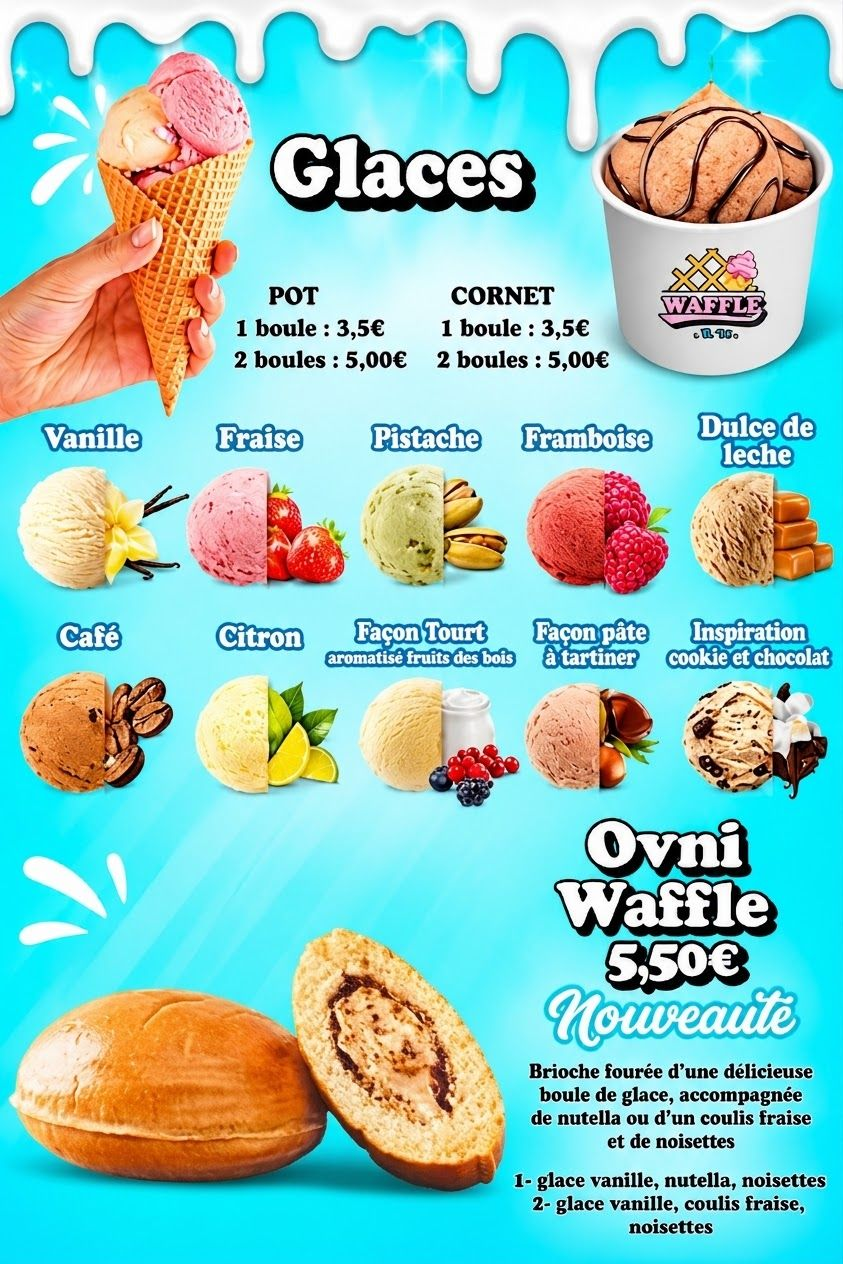
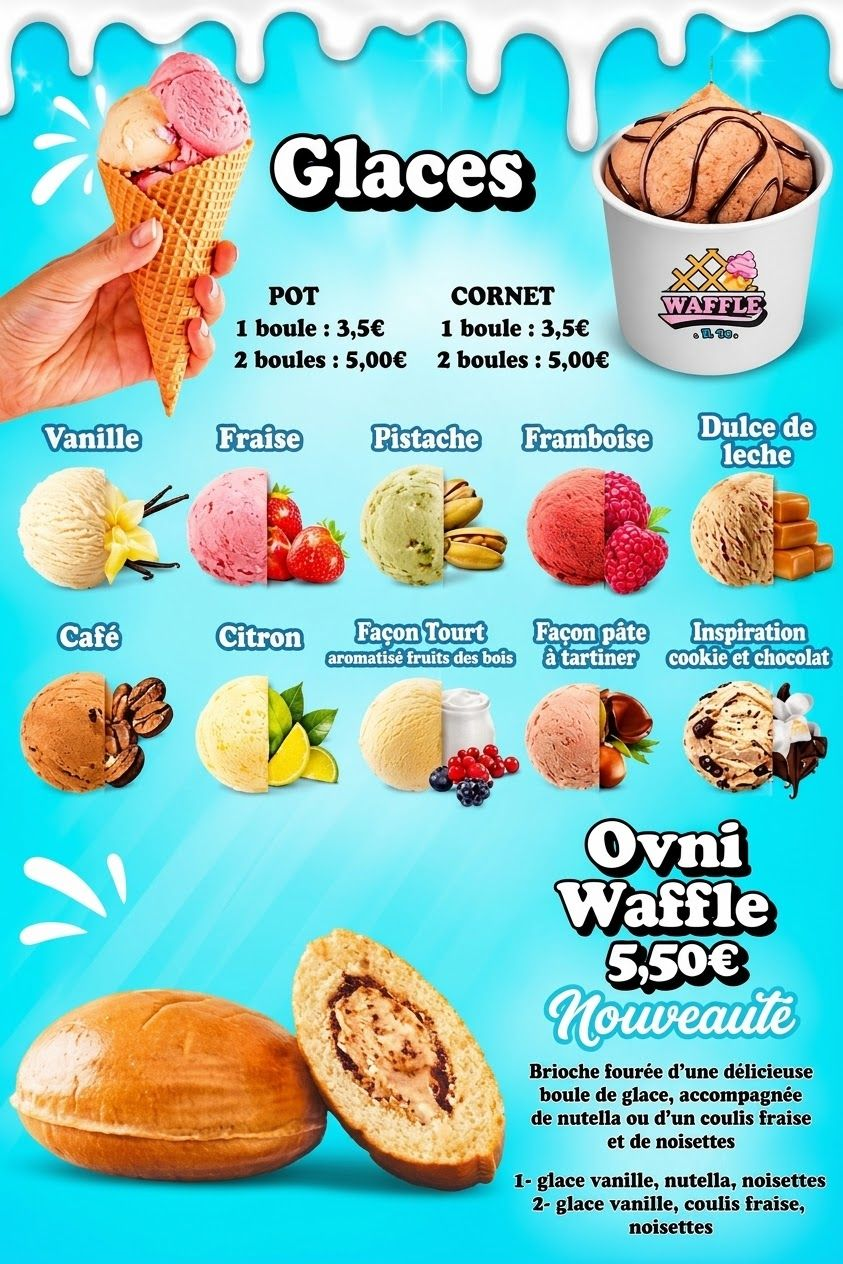
Nouvelle image portrait smoothies

diff --git a/script.js b/script.js
@@ -3,7 +3,7 @@ function show(){
  var h=(location.hash||"#menu").slice(1);if(views.indexOf(h)<0)h="menu";
  views.forEach(function(v){document.getElementById("v-"+v).classList.toggle("on",v===h)});
  document.querySelectorAll("nav a").forEach(function(a){a.setAttribute("aria-current",a.getAttribute("href")==="#"+h)});
- if(h!=="jeu")stop();if(h==="menu")fit();
+ if(h!=="jeu")stop();if(h==="menu")fit();if(h==="jeu"&&window.sizeG)sizeG();
 }
 addEventListener("hashchange",show);show();
 
@@ -45,63 +45,82 @@ document.getElementById("send").onclick=function(){
  ["n","e","m"].forEach(function(i){document.getElementById(i).value=""});
 };
 
-/* Jeu */
-var cv=document.getElementById("g"),cx=cv.getContext("2d"),W=420,H=520;
-var GOOD=["🥞","🧇","🍬"],BAD=["🐝","🐜","🐟"];
-var px=W/2,items=[],score=0,lives=3,run=false,raf=0,last=0,spawn=0,best=0,keys={};
-try{best=+localStorage.getItem("wc_best")||0}catch(e){}
-document.getElementById("bs").textContent=best;
-function body(x){
- var y=H-110;
- cx.lineWidth=3;cx.strokeStyle="#000";
- cx.fillStyle="#f2c29b";
- cx.beginPath();cx.arc(x,y-4,22,0,7);cx.fill();cx.stroke();           /* tête */
- cx.fillStyle="#000";cx.beginPath();cx.arc(x-8,y-8,2.5,0,7);cx.arc(x+8,y-8,2.5,0,7);cx.fill();
- cx.beginPath();cx.arc(x,y,9,.2,Math.PI-.2);cx.stroke();               /* sourire */
- cx.fillStyle="#f2c29b";cx.beginPath();cx.ellipse(x,y+68,50,40,0,0,7);cx.fill();cx.stroke(); /* ventre */
- cx.beginPath();cx.arc(x,y+72,3,0,7);cx.stroke();                      /* nombril */
- cx.fillStyle="#111";cx.beginPath();cx.moveTo(x-36,y+22);cx.quadraticCurveTo(x,y+14,x+36,y+22);
- cx.lineTo(x+52,y+58);cx.quadraticCurveTo(x,y+44,x-52,y+58);cx.closePath();cx.fill();cx.stroke(); /* t-shirt court */
- cx.fillStyle="#2FC4EA";cx.fillRect(x-34,y+104,28,22);cx.fillRect(x+6,y+104,28,22);cx.strokeRect(x-34,y+104,28,22);cx.strokeRect(x+6,y+104,28,22);
-}
-function draw(){
- cx.clearRect(0,0,W,H);
- cx.font="38px serif";cx.textAlign="center";cx.textBaseline="middle";
- items.forEach(function(i){cx.fillText(i.e,i.x,i.y)});
- body(px);
-}
-function loop(t){
- if(!run)return;
- var dt=Math.min(40,t-last)/1000;last=t;
- if(keys.ArrowLeft)px-=320*dt;if(keys.ArrowRight)px+=320*dt;
- px=Math.max(50,Math.min(W-50,px));
- spawn-=dt;
- if(spawn<=0){var bad=Math.random()<.35,s=bad?BAD:GOOD;
-  items.push({x:30+Math.random()*(W-60),y:-20,v:120+Math.random()*80+score*1.2,e:s[Math.floor(Math.random()*3)],bad:bad});
-  spawn=Math.max(.35,.9-score/400)}
- items=items.filter(function(i){
-  i.y+=i.v*dt;
-  var hit=i.y>H-120&&i.y<H-30&&Math.abs(i.x-px)<52;
-  if(hit){if(i.bad){lives--}else{score+=10}ui();return false}
-  return i.y<H+30});
- if(lives<=0){end();return}
- draw();raf=requestAnimationFrame(loop);
-}
-function ui(){document.getElementById("sc").textContent=score;document.getElementById("lv").textContent="❤❤❤".slice(0,Math.max(0,lives))||"💔"}
-function start(){items=[];score=0;lives=3;spawn=.5;px=W/2;run=true;ui();document.getElementById("ov").style.display="none";last=performance.now();raf=requestAnimationFrame(loop)}
-function stop(){run=false;cancelAnimationFrame(raf)}
-function end(){
- stop();draw();
- if(score>best){best=score;document.getElementById("bs").textContent=best;try{localStorage.setItem("wc_best",best)}catch(e){}}
- var o=document.getElementById("ov");o.style.display="flex";
- o.children[0].textContent="Aïe, perdu !";o.children[1].innerHTML="Ton score : "+score;o.children[2].textContent="Tu veux retenter ?";
- document.getElementById("go").textContent="Rejouer";
-}
-document.getElementById("go").onclick=start;
-function mv(e){var r=cv.getBoundingClientRect();px=(e.clientX-r.left)*W/r.width}
-cv.addEventListener("pointermove",mv);cv.addEventListener("pointerdown",mv);
-addEventListener("keydown",function(e){if(e.key==="ArrowLeft"||e.key==="ArrowRight"){keys[e.key]=true;if(location.hash==="#jeu")e.preventDefault()}
- else if(location.hash==="#menu"||!location.hash){}});
-addEventListener("keyup",function(e){keys[e.key]=false});
-addEventListener("keydown",function(e){if(!location.hash||location.hash==="#menu"){if(e.key==="ArrowLeft")go(cur-1);if(e.key==="ArrowRight")go(cur+1)}});
-draw();
+/* Jeux Waffle&Co */
+var CONFIG={leaderboardUrl:null}; /* plus tard : adresse de l’API du classement avec lots */
+var $=function(i){return document.getElementById(i)},cv=$("g"),cx=cv.getContext("2d"),W=360,H=540;
+var GM=null,S={},run=false,raf=0,last=0,paused=false,mute=false,pname="",AC=null;
+try{pname=localStorage.getItem("wc_name")||""}catch(e){}$("pn").value=pname;
+var EM=["","🍓","🍌","🍬","🥞","🧇","🍦","🧁","🍰","🍩","🏆","👑"],PAL=["#fff","#ffb3c7","#fff3a0","#ffc2f0","#ffd9a0","#ffe28a","#c8f0ff","#e6c8ff","#ffb3b3","#ffcf9e","#ffe066","#ffd23f"],IN=["🍫","🍓","🍌","🍯","🍦","🍬"];
+function beep(f,d,ty){if(mute)return;try{AC=AC||new(window.AudioContext||window.webkitAudioContext)();var o=AC.createOscillator(),g=AC.createGain();o.type=ty||"sine";o.frequency.value=f;g.gain.value=.06;o.connect(g);g.connect(AC.destination);o.start();g.gain.exponentialRampToValueAtTime(.0001,AC.currentTime+d);o.stop(AC.currentTime+d)}catch(e){}}
+$("mu").onclick=function(){mute=!mute;$("mu").textContent=mute?"🔇":"🔊"};
+function loadLB(id){try{return JSON.parse(localStorage.getItem("wc_lb_"+id)||"[]")}catch(e){return[]}}
+function saveScore(id,n,s){var e={g:id,n:n,s:s,d:new Date().toISOString().slice(0,10)},a=loadLB(id);a.push(e);a.sort(function(x,y){return y.s-x.s});a=a.slice(0,10);
+ try{localStorage.setItem("wc_lb_"+id,JSON.stringify(a))}catch(x){}
+ if(CONFIG.leaderboardUrl){try{fetch(CONFIG.leaderboardUrl,{method:"POST",headers:{"Content-Type":"application/json"},body:JSON.stringify(e)}).catch(function(){})}catch(x){}}}
+function showOv(t,d,b,nm){$("ot").textContent=t;$("od").innerHTML=d;$("go").textContent=b;$("pn").style.display=nm?"block":"none";$("sh").hidden=!(!nm&&!paused&&navigator.share);
+ var o=$("top5");o.innerHTML="";loadLB(GM.id).slice(0,5).forEach(function(e){var l=document.createElement("li");l.textContent=e.n+" – "+e.s;o.appendChild(l)});$("ov").style.display="flex"}
+function sizeG(){if(!GM||!cv)return;var v=$("v-jeu"),g=$("gw"),t=g.getBoundingClientRect().top+scrollY,aw=v.clientWidth-8,ah=Math.max(280,innerHeight-t-14),s=Math.min(aw/W,ah/H);if(!(s>0))return;
+ var d=Math.min(2,devicePixelRatio||1);cv.style.width=W*s+"px";cv.style.height=H*s+"px";cv.width=W*d;cv.height=H*d;cx.setTransform(d,0,0,d,0,0);cx.clearRect(0,0,W,H);GM.drw()}
+addEventListener("resize",sizeG);
+function ui(){$("sc").textContent=S.score;$("cb").textContent=S.lives!=null?"❤".repeat(Math.max(0,S.lives)):""}
+function newO(){var k=S.n<5?2:3;S.o=IN.slice().sort(function(){return Math.random()-.5}).slice(0,k);S.got=[];S.tmax=Math.max(3,8-S.n*.3);S.tm=S.tmax}
+function lose(){S.lives--;beep(120,.3,"sawtooth");if(S.lives<=0)S.dead=1;else newO();ui()}
+function addT(){var e=[];S.g.forEach(function(v,i){if(!v)e.push(i)});if(e.length)S.g[e[Math.floor(Math.random()*e.length)]]=Math.random()<.9?1:2}
+function slide(l){var a=l.filter(Boolean),r=[],sc=0;for(var i=0;i<a.length;i++){if(a[i]===a[i+1]){r.push(a[i]+1);sc+=Math.pow(2,a[i]+1);i++}else r.push(a[i])}while(r.length<4)r.push(0);return[r,sc]}
+function can(){var g=S.g;for(var i=0;i<16;i++){if(!g[i])return 1;if(i%4<3&&g[i]===g[i+1])return 1;if(i<12&&g[i]===g[i+4])return 1}return 0}
+function mv4(d){var g=S.g,n=g.slice(),ch=0,tot=0;
+ for(var k=0;k<4;k++){var ix=[0,1,2,3].map(function(j){return d<2?k*4+j:j*4+k});if(d%2)ix.reverse();var r=slide(ix.map(function(i){return g[i]}));ix.forEach(function(i,j){if(n[i]!==r[0][j])ch=1;n[i]=r[0][j]});tot+=r[1]}
+ if(ch){S.g=n;S.score+=tot;addT();beep(300+tot*8,.1);ui();if(!can())S.dead=1}}
+var C4=["#ff6fb5","#ffd23f","#5ad1f0","#b57bff"];
+function T(s,x,y,f){cx.font=f;cx.fillText(s,x,y)}
+var GAMES=[
+{id:"stack",n:"Empile ta glace",e:"🍦",d:"Touche l’écran pour poser chaque étage pile sur le précédent. Plus tu es précis, plus la pile reste large !",
+ init:function(){S={score:0,bl:[{x:80,w:200}],mx:0,mw:200,dir:1,sp:150,cam:0}},
+ upd:function(dt){S.mx+=S.dir*S.sp*dt;if(S.mx<0){S.mx=0;S.dir=1}if(S.mx+S.mw>W){S.mx=W-S.mw;S.dir=-1}S.cam+=(Math.max(0,S.bl.length-8)*30-S.cam)*Math.min(1,dt*6)},
+ dn:function(){var t=S.bl[S.bl.length-1],l=Math.max(t.x,S.mx),o=Math.min(t.x+t.w,S.mx+S.mw)-l;if(o<=0){S.dead=1;beep(150,.4,"sawtooth");return}
+  if(Math.abs(S.mx-t.x)<6){l=t.x;o=t.w}S.bl.push({x:l,w:o});S.mw=o;S.score++;S.sp=Math.min(380,150+S.score*9);S.mx=S.dir>0?0:W-o;ui();beep(500+S.score*15,.1)},
+ drw:function(){var m=S.cam;cx.lineWidth=3;cx.strokeStyle="#000";cx.fillStyle="#c68642";cx.fillRect(-5,H-52+m,W+10,80);cx.strokeRect(-5,H-52+m,W+10,80);
+  S.bl.forEach(function(b,i){cx.fillStyle=C4[i%4];var y=H-80-i*30+m;cx.fillRect(b.x,y,b.w,28);cx.strokeRect(b.x,y,b.w,28)});
+  var n=S.bl.length,y=H-80-n*30+m;cx.fillStyle=C4[n%4];cx.fillRect(S.mx,y,S.mw,28);cx.strokeRect(S.mx,y,S.mw,28);cx.textAlign="center";cx.textBaseline="middle";T("🍦",S.mx+S.mw/2,y-14,"26px serif")}},
+{id:"m2048",n:"Waffle 2048",e:"🧇",d:"Glisse le doigt pour faire fusionner deux gourmandises identiques. Arriveras-tu à l’Ovni Waffle 👑 ?",
+ init:function(){S={score:0,g:new Array(16).fill(0),dx:0,dy:0};addT();addT()},upd:function(){},
+ dn:function(x,y){S.dx=x;S.dy=y},up:function(x,y){var a=x-S.dx,b=y-S.dy;if(Math.max(Math.abs(a),Math.abs(b))<20)return;mv4(Math.abs(a)>Math.abs(b)?(a<0?0:1):(b<0?2:3))},
+ key:function(k){var d=["ArrowLeft","ArrowRight","ArrowUp","ArrowDown"].indexOf(k);if(d>=0)mv4(d)},
+ drw:function(){var X=(W-344)/2+3,Y=110;cx.textAlign="center";cx.textBaseline="middle";cx.lineWidth=3;cx.strokeStyle="#000";cx.fillStyle="#2a1024";T("Glisse pour fusionner 2 identiques",W/2,60,"700 16px Nunito,sans-serif");
+  S.g.forEach(function(v,i){var x=X+(i%4)*86,y=Y+(i>>2)*86;cx.fillStyle=v?PAL[Math.min(v,11)]:"#ffffff88";cx.fillRect(x,y,80,80);cx.strokeRect(x,y,80,80);if(v){cx.fillStyle="#000";T(EM[Math.min(v,11)],x+40,y+42,"42px serif")}})}},
+{id:"flap",n:"Waffle Flap",e:"🪽",d:"Touche l’écran pour faire sauter la gaufre entre les barres de chocolat. Ne touche rien !",
+ init:function(){S={score:0,y:250,vy:0,p:[],t:.3}},
+ upd:function(dt){S.vy+=900*dt;S.y+=S.vy*dt;S.t-=dt;if(S.t<=0){S.p.push({x:W+30,g:70+Math.random()*(H-300),d:0});S.t=1.5}
+  S.p.forEach(function(p){p.x-=140*dt;if(!p.d&&p.x<70){p.d=1;S.score++;ui();beep(700,.08)}if(Math.abs(p.x-90)<42&&(S.y-14<p.g||S.y+14>p.g+150))S.dead=1});
+  S.p=S.p.filter(function(p){return p.x>-40});if(S.y>H-14||S.y<10)S.dead=1},
+ dn:function(){S.vy=-320;beep(400,.05)},
+ drw:function(){cx.fillStyle="#7b4a2b";cx.strokeStyle="#000";cx.lineWidth=3;S.p.forEach(function(p){var b=p.g+150;cx.fillRect(p.x-30,-5,60,p.g+5);cx.strokeRect(p.x-30,-5,60,p.g+5);cx.fillRect(p.x-30,b,60,H-b+5);cx.strokeRect(p.x-30,b,60,H-b+5)});cx.textAlign="center";cx.textBaseline="middle";T("🧇",90,S.y,"34px serif")}},
+{id:"order",n:"Commande express",e:"🧑🍳",d:"Un client arrive ! Touche vite les bons ingrédients avant la fin du temps. Une erreur = une vie en moins.",
+ init:function(){S={score:0,lives:3,n:0};newO()},upd:function(dt){S.tm-=dt;if(S.tm<=0)lose()},
+ dn:function(x,y){var c=Math.floor((x-30)/100),r=Math.floor((y-300)/110);if(c<0||c>2||r<0||r>1||(x-30)%100>90||(y-300)%110>95)return;var g=IN[r*3+c];
+  if(S.o.indexOf(g)>=0&&S.got.indexOf(g)<0){S.got.push(g);beep(600+S.got.length*100,.08);if(S.got.length===S.o.length){S.score+=10+Math.ceil(S.tm*2);S.n++;newO();ui();beep(900,.2)}}else lose()},
+ drw:function(){cx.textAlign="center";cx.textBaseline="middle";cx.lineWidth=3;cx.strokeStyle="#000";T("🙋",W/2,45,"56px serif");cx.fillStyle="#2a1024";T("Je voudrais…",W/2,98,"800 18px Nunito,sans-serif");
+  S.o.forEach(function(g,i){cx.globalAlpha=S.got.indexOf(g)>=0?.25:1;T(g,W/2+(i-(S.o.length-1)/2)*70,150,"50px serif")});cx.globalAlpha=1;
+  var f=Math.max(0,S.tm/S.tmax);cx.fillStyle=f>.4?"#5ad1f0":"#ff5a5a";cx.fillRect(30,205,(W-60)*f,14);cx.strokeRect(30,205,W-60,14);
+  IN.forEach(function(g,i){var x=30+(i%3)*100,y=300+(i>2?1:0)*110;cx.fillStyle="#fff";cx.fillRect(x,y,90,95);cx.strokeRect(x,y,90,95);cx.fillStyle="#000";T(g,x+45,y+48,"46px serif")})}}
+];
+function hub(){var h=$("hub");h.innerHTML="";GAMES.forEach(function(g,i){var b=document.createElement("button"),s=loadLB(g.id)[0];b.className="gc";b.type="button";
+ b.innerHTML="<span></span><b></b><small></small>";b.children[0].textContent=g.e;b.children[1].textContent=g.n;b.children[2].textContent=s?"Record : "+s.s:"Pas encore joué";b.onclick=function(){pick(g)};h.appendChild(b)})}
+function pick(g){GM=g;paused=false;run=false;$("hub").hidden=true;$("stage").hidden=false;g.init();ui();sizeG();showOv(g.n,g.d,"Jouer",true)}
+function begin(){run=true;paused=false;$("ov").style.display="none";last=performance.now();raf=requestAnimationFrame(loop)}
+function loop(t){if(!run)return;var dt=Math.min(.04,(t-last)/1000);last=t;GM.upd(dt);if(S.dead){over();return}cx.clearRect(0,0,W,H);GM.drw();raf=requestAnimationFrame(loop)}
+function start(){var n=$("pn").value.trim().slice(0,12);if(n){pname=n;try{localStorage.setItem("wc_name",n)}catch(e){}}GM.init();ui();begin();beep(600,.1)}
+function over(){run=false;cx.clearRect(0,0,W,H);GM.drw();var b=loadLB(GM.id)[0],rec=S.score>0&&(!b||S.score>b.s);if(S.score>0)saveScore(GM.id,pname||"Invité",S.score);beep(200,.5,"triangle");
+ showOv("Perdu !","Score : <b>"+S.score+"</b>"+(rec?"<br>🎉 Nouveau record !":""),"Rejouer",false)}
+function pauseG(){if(!run)return;run=false;cancelAnimationFrame(raf);paused=true;showOv("Pause","Score : <b>"+S.score+"</b>","Reprendre",false)}
+function stop(){pauseG()}
+document.addEventListener("visibilitychange",function(){if(document.hidden)pauseG()});
+$("go").onclick=function(){if(paused)begin();else start()};
+$("bk").onclick=function(){run=false;cancelAnimationFrame(raf);paused=false;GM=null;$("stage").hidden=true;$("hub").hidden=false;hub()};
+$("sh").onclick=function(){try{navigator.share({title:GM.n,text:"J’ai fait "+S.score+" points à « "+GM.n+" » chez Waffle&Co ! Viens battre mon score.",url:location.href.split("#")[0]})}catch(e){}};
+function cp(e){var r=cv.getBoundingClientRect();return[(e.clientX-r.left)*W/r.width,(e.clientY-r.top)*H/r.height]}
+cv.addEventListener("pointerdown",function(e){if(run&&GM.dn){var p=cp(e);GM.dn(p[0],p[1])}});
+cv.addEventListener("pointerup",function(e){if(run&&GM.up){var p=cp(e);GM.up(p[0],p[1])}});
+addEventListener("keydown",function(e){var k=e.key;if(location.hash==="#jeu"&&run&&GM.key){e.preventDefault();GM.key(k)}
+ if(!location.hash||location.hash==="#menu"){if(k==="ArrowLeft")go(cur-1);if(k==="ArrowRight")go(cur+1)}});
+hub();

diff --git a/style.css b/style.css
@@ -43,4 +43,19 @@ input,textarea{width:100%;font:inherit;padding:10px 12px;border:3px solid #000;b
 .sl{flex:0 0 100%;position:relative}.rt{display:block;margin:0 auto;font-size:16px;padding:5px 18px}.rot .car{background:var(--bg)}.rot .track{height:100%}.rot .sl{height:100%}.rot .sl img{position:absolute;top:50%;left:50%;max-width:none;transform:translate(-50%,-50%) rotate(90deg);object-fit:contain}.rot h1{display:none}@media (orientation:landscape){.rt{display:none}}
 @media (orientation:landscape) and (max-height:520px){header{position:fixed;top:0;left:0;bottom:0;width:calc(150px + env(safe-area-inset-left,0px));flex-direction:column;align-items:stretch;justify-content:flex-start;gap:8px;padding:8px 10px 8px max(10px,env(safe-area-inset-left));box-shadow:4px 0 0 var(--line);overflow-y:auto}.top img{height:auto;width:100%;max-height:64px;object-fit:contain}nav{flex:none;flex-direction:column;flex-wrap:nowrap;justify-content:flex-start;gap:6px}nav a{flex:none;width:100%;font-size:14px;padding:4px 6px}.info{margin-top:auto;text-align:center;white-space:normal}main{margin-left:calc(150px + env(safe-area-inset-left,0px));padding:8px 12px}.track img{height:calc(100vh - 22px);height:calc(100dvh - 22px)}#g{height:calc(100vh - 100px);height:calc(100dvh - 100px)}}
 @media (orientation:portrait){#lb img{height:auto;width:100%;margin:0 auto auto}.ar{position:fixed;top:55%}}
+.mini{border:2px solid #000;border-radius:50%;background:var(--yel);width:34px;height:34px;font-size:16px;cursor:pointer;padding:0}
+.hud{align-items:center}
+.gw{width:fit-content;max-width:none;margin:auto}
+#g{max-width:none;box-sizing:content-box}
+.ov{overflow:auto;gap:8px}
+.ov .tt{font:400 30px "Lilita One",sans-serif}
+.ov input{width:190px;text-align:center;padding:6px 10px}
+.ov .btn{margin-top:4px}.ov .alt{background:var(--yel)}
+.board{margin:2px 0;padding:0 0 0 22px;font-weight:800;font-size:14px;text-align:left}
+.small{font-size:12px}
+@media (orientation:landscape) and (max-height:520px){#v-jeu h1{display:none}.ov .small{display:none}.ov{gap:4px;padding:8px}.ov .tt{font-size:22px}.board{display:none}}
+[hidden]{display:none!important}
+.hub{display:grid;grid-template-columns:1fr 1fr;gap:12px}
+.gc{background:var(--card);border:3px solid #000;border-radius:18px;padding:14px 8px;box-shadow:4px 5px 0 #000;font:inherit;cursor:pointer;display:flex;flex-direction:column;align-items:center;gap:4px;color:var(--ink)}
+.gc span{font-size:40px}.gc b{font:400 18px "Lilita One",sans-serif}.gc small{font-size:12px}
 @media (prefers-reduced-motion:reduce){.track{transition:none}}

diff --git a/index.html b/index.html
@@ -58,15 +58,20 @@
  </section>
 
  <section class="view" id="v-jeu">
-  <h1>Attrape les gourmandises</h1>
-  <div class="hud"><span>Score : <span id="sc">0</span></span><span id="lv">❤❤❤</span><span>Record : <span id="bs">0</span></span></div>
-  <div class="gw">
-   <canvas id="g" width="420" height="520" aria-label="Jeu : attrape les crêpes, gaufres et bonbons, évite abeilles, fourmis et poissons-chats"></canvas>
-   <div class="ov" id="ov">
-    <p style="font:400 26px 'Lilita One',sans-serif">Prêt à manger ?</p>
-    <p>Attrape 🥞 🧇 🍬 avec le ventre.<br>Évite 🐝 🐜 🐟 !</p>
-    <p>Glisse le doigt ou utilise ← →</p>
-    <button class="btn" id="go" type="button">Jouer</button>
+  <h1>Jeux</h1>
+  <div class="hub" id="hub"></div>
+  <div id="stage" hidden>
+   <div class="hud"><button class="mini" id="bk" type="button" aria-label="Retour aux jeux">←</button><span>⭐ <b id="sc">0</b></span><span id="cb"></span><button class="mini" id="mu" type="button" aria-label="Son">🔊</button></div>
+   <div class="gw" id="gw">
+    <canvas id="g" aria-label="Zone de jeu"></canvas>
+    <div class="ov" id="ov">
+     <p class="tt" id="ot"></p><p id="od"></p>
+     <input id="pn" maxlength="12" placeholder="Ton pseudo" autocomplete="nickname" aria-label="Ton pseudo">
+     <button class="btn" id="go" type="button">Jouer</button>
+     <button class="btn alt" id="sh" type="button" hidden>Partager mon score</button>
+     <ol class="board" id="top5"></ol>
+     <p class="small">🏆 Bientôt : classement du mois avec des lots à gagner !</p>
+    </div>
    </div>
   </div>
  </section>
